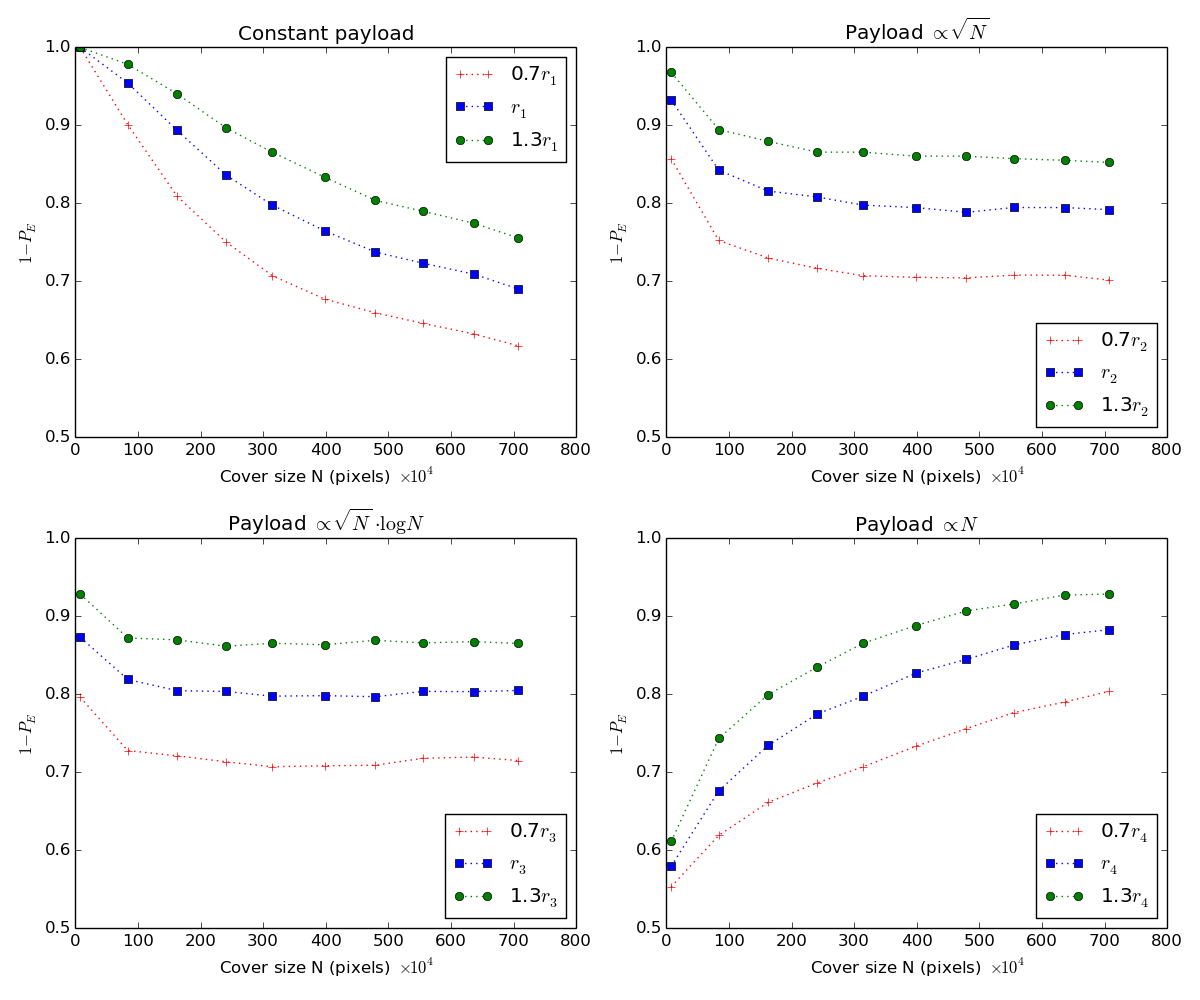
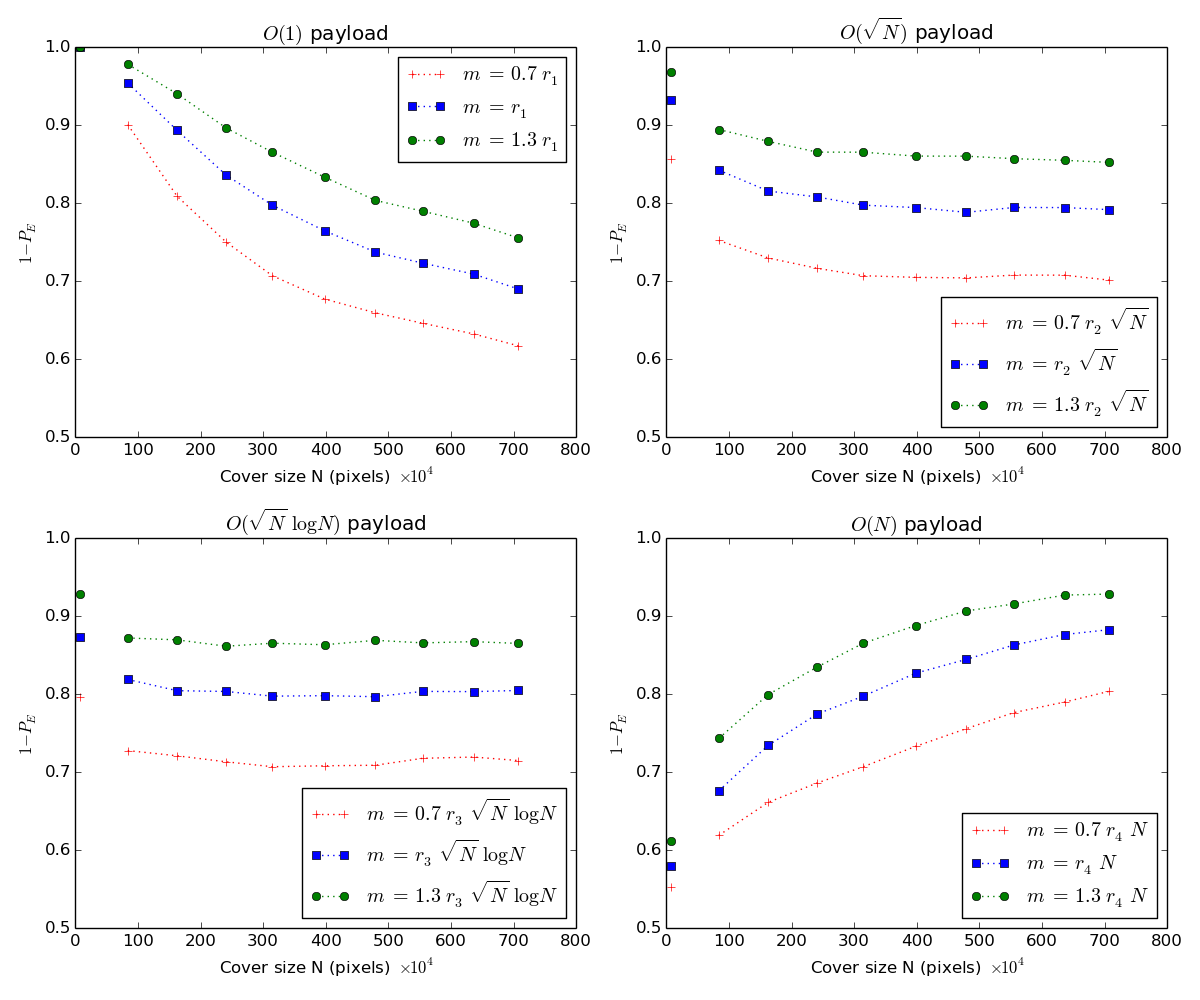
Update Actor3 detectability graphs to detach smallest image size

diff --git a/results/actor3_plot_detectability_graph.py b/results/actor3_plot_detectability_graph.py
@@ -45,50 +45,62 @@ if args.rate == 0:  # Plot all four payload rates
 
     # Constant payload
     plt.subplot(2,2,1)
-    plt.plot(x, y1_s, 'r+:', label=r'0.7$r_1$')
-    plt.plot(x, y1_m, 'bs:', label=r'$r_1$')
-    plt.plot(x, y1_l, 'go:', label=r'1.3$r_1$')
+    plt.plot(x[0], y1_s[0], 'r+')
+    plt.plot(x[0], y1_m[0], 'bs')
+    plt.plot(x[0], y1_l[0], 'go')
+    plt.plot(x[1:], y1_s[1:], 'r+:', label=r'$m\ =\ 0.7\ r_1$')
+    plt.plot(x[1:], y1_m[1:], 'bs:', label=r'$m\ =\ r_1$')
+    plt.plot(x[1:], y1_l[1:], 'go:', label=r'$m\ =\ 1.3\ r_1$')
     plt.axis(axis_bounds)
     plt.xlabel(x_label)
     plt.ylabel(y_label)
     if args.with_title:
-        plt.title(r'Constant payload')
+        plt.title(r'$O(1)$ payload')
     plt.legend(loc='upper right')
 
     # Payload proportional to sqrt(N)
     plt.subplot(2,2,2)
-    plt.plot(x, y2_s, 'r+:', label=r'0.7$r_2$')
-    plt.plot(x, y2_m, 'bs:', label=r'$r_2$')
-    plt.plot(x, y2_l, 'go:', label=r'1.3$r_2$')
+    plt.plot(x[0], y2_s[0], 'r+')
+    plt.plot(x[0], y2_m[0], 'bs')
+    plt.plot(x[0], y2_l[0], 'go')
+    plt.plot(x[1:], y2_s[1:], 'r+:', label=r'$m\ =\ 0.7\ r_2\ \sqrt{N}$')
+    plt.plot(x[1:], y2_m[1:], 'bs:', label=r'$m\ =\ r_2\ \sqrt{N}$')
+    plt.plot(x[1:], y2_l[1:], 'go:', label=r'$m\ =\ 1.3\ r_2\ \sqrt{N}$')
     plt.axis(axis_bounds)
     plt.xlabel(x_label)
     plt.ylabel(y_label)
     if args.with_title:
-        plt.title(r'Payload $\propto \sqrt{N}$')
+        plt.title(r'$O(\sqrt{N})$ payload')
     plt.legend(loc='lower right')
 
     # Payload proportional to sqrt(N) * log(N)
     plt.subplot(2,2,3)
-    plt.plot(x, y3_s, 'r+:', label=r'0.7$r_3$')
-    plt.plot(x, y3_m, 'bs:', label=r'$r_3$')
-    plt.plot(x, y3_l, 'go:', label=r'1.3$r_3$')
+    plt.plot(x[0], y3_s[0], 'r+')
+    plt.plot(x[0], y3_m[0], 'bs')
+    plt.plot(x[0], y3_l[0], 'go')
+    plt.plot(x[1:], y3_s[1:], 'r+:', label=r'$m\ =\ 0.7\ r_3\ \sqrt{N}\ \log{N}$')
+    plt.plot(x[1:], y3_m[1:], 'bs:', label=r'$m\ =\ r_3\ \sqrt{N}\ \log{N}$')
+    plt.plot(x[1:], y3_l[1:], 'go:', label=r'$m\ =\ 1.3\ r_3\ \sqrt{N}\ \log{N}$')
     plt.axis(axis_bounds)
     plt.xlabel(x_label)
     plt.ylabel(y_label)
     if args.with_title:
-        plt.title(r'Payload $\propto \sqrt{N} \cdot \log{N}$')
+        plt.title(r'$O(\sqrt{N}\ \log{N})$ payload')
     plt.legend(loc='lower right')
 
     # Payload proportional to N
     plt.subplot(2,2,4)
-    plt.plot(x, y4_s, 'r+:', label=r'0.7$r_4$')
-    plt.plot(x, y4_m, 'bs:', label=r'$r_4$')
-    plt.plot(x, y4_l, 'go:', label=r'1.3$r_4$')
+    plt.plot(x[0], y4_s[0], 'r+')
+    plt.plot(x[0], y4_m[0], 'bs')
+    plt.plot(x[0], y4_l[0], 'go')
+    plt.plot(x[1:], y4_s[1:], 'r+:', label=r'$m\ =\ 0.7\ r_4\ N$')
+    plt.plot(x[1:], y4_m[1:], 'bs:', label=r'$m\ =\ r_4\ N$')
+    plt.plot(x[1:], y4_l[1:], 'go:', label=r'$m\ =\ 1.3\ r_4\ N$')
     plt.axis(axis_bounds)
     plt.xlabel(x_label)
     plt.ylabel(y_label)
     if args.with_title:
-        plt.title(r'Payload $\propto N$')
+        plt.title(r'$O(N)$ payload')
     plt.legend(loc='lower right')
 
     # Save plot
@@ -101,47 +113,55 @@ else:
     y_small = []
     y_med = []
     y_large = []
-    constant_name = ''
+    constant = ''
     legend_location = ''
+    rate = ''
 
     if args.rate == 1:  # Constant payload
         y_small = y1_s
         y_med = y1_m
         y_large = y1_l
-        graph_title = r'Constant payload'
+        graph_title = r'$O(1)$ payload'
         file_desc = 'constant'
-        constant_name = r'$r_1$'
+        constant = r'$r_1$'
         legend_location = 'upper right'
+        rate = ''
     elif args.rate == 2:  # Payload proportional to sqrt(N)
         y_small = y2_s
         y_med = y2_m
         y_large = y2_l
-        graph_title = r'Payload $\propto \sqrt{N}$'
+        graph_title = r'$O(\sqrt{N})$ payload'
         file_desc = 'sqrt'
-        constant_name = r'$r_2$'
+        constant = r'$r_2$'
         legend_location = 'lower right'
+        rate = r'$\sqrt{N}$'
     elif args.rate == 3:  # Payload proportional to sqrt(N) * log(N)
         y_small = y3_s
         y_med = y3_m
         y_large = y3_l
-        graph_title = r'Payload $\propto \sqrt{N} \cdot \log{N}$'
+        graph_title = r'$O(\sqrt{N}\ \log{N})$ payload'
         file_desc = 'sqrt_log'
-        constant_name = r'$r_3$'
+        constant = r'$r_3$'
         legend_location = 'lower right'
+        rate = r'$\sqrt{N}\ \log{N}$'
     else:  # Payload proportional to N
         y_small = y4_s
         y_med = y4_m
         y_large = y4_l
-        graph_title = r'Payload $\propto N$'
+        graph_title = r'$O(N)$ payload'
         file_desc = 'linear'
-        constant_name = r'$r_4$'
+        constant = r'$r_4$'
         legend_location = 'lower right'
+        rate = r'$N$'
 
     # Create plot
     plt.figure(figsize=(6,5))
-    plt.plot(x, y_small, 'r+:', label='0.7{}'.format(constant_name))
-    plt.plot(x, y_med, 'bs:', label=constant_name)
-    plt.plot(x, y_large, 'go:', label='1.3{}'.format(constant_name))
+    plt.plot(x[0], y_small[0], 'r+')
+    plt.plot(x[0], y_med[0], 'bs')
+    plt.plot(x[0], y_large[0], 'go')
+    plt.plot(x[1:], y_small[1:], 'r+:', label=r'$m\ =\ 0.7\ ${}{}'.format(constant, rate))
+    plt.plot(x[1:], y_med[1:], 'bs:', label=r'$m\ =\ ${}{}'.format(constant, rate))
+    plt.plot(x[1:], y_large[1:], 'go:', label=r'$m\ =\ 1.3\ ${}{}'.format(constant, rate))
     plt.axis(axis_bounds)
     plt.xlabel(x_label)
     plt.ylabel(y_label)
